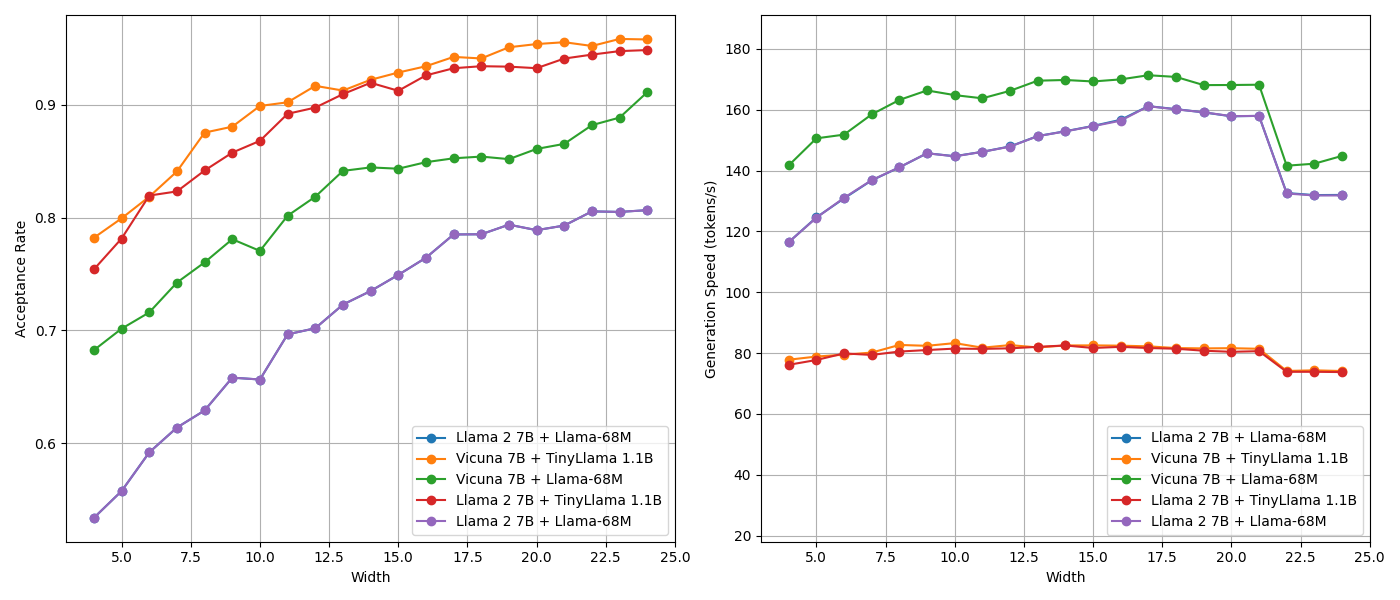
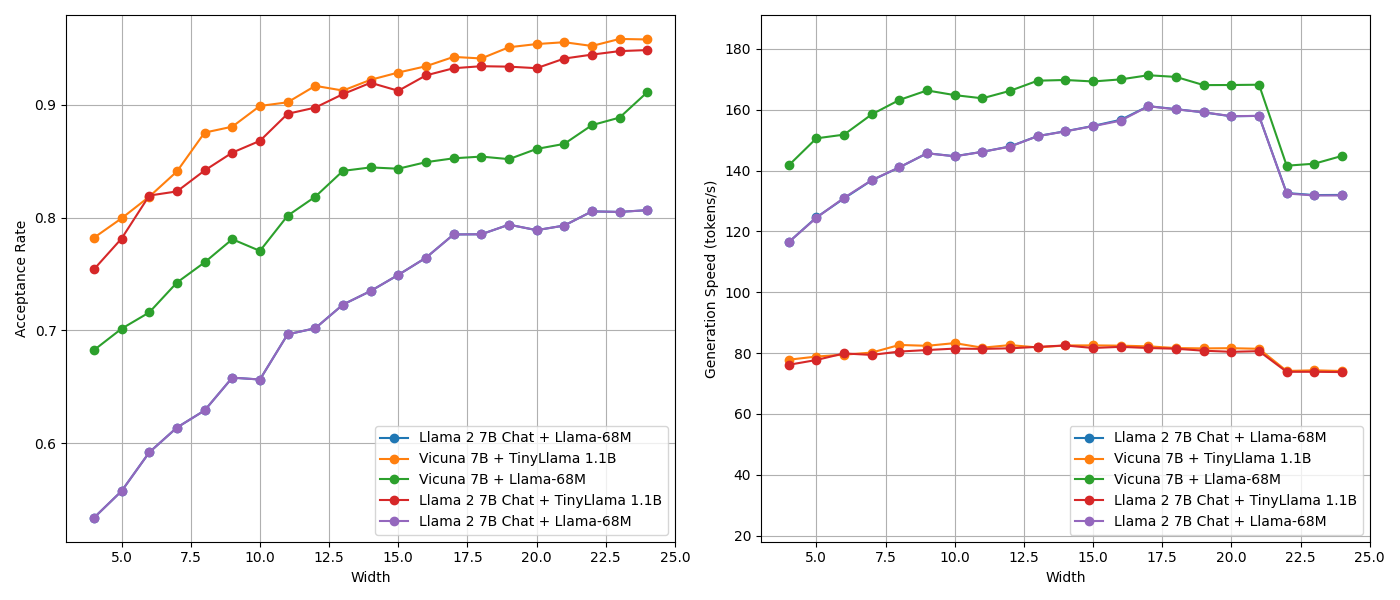
update data

Changed region(s): [[0.7679, 0.72, 0.9829, 0.9], [0.2764, 0.72, 0.4607, 0.9]]

diff --git a/evaluation/dynasd_test_without_decision_model.py b/evaluation/dynasd_test_without_decision_model.py
@@ -3,136 +3,180 @@ import torch
 from transformers import AutoTokenizer
 from inference.fork_shape_tree_attn import *
 from inference.strategies import *
-from decision_models import *
+from inference.decision_models import *
 from model.llama_tree_attn import LlamaForCausalLM
 import datasets
 from tqdm import tqdm
 import gc
+import matplotlib.pyplot as plt
 import csv
-import random
 
-target_model_names = ["lmsys/vicuna-7b-v1.5", "meta-llama/Llama-2-7b-chat-hf"]
-draft_model_names = ['TinyLlama/TinyLlama-1.1B-Chat-v1.0', 'JackFram/llama-68m']
+target_model_name = "meta-llama/Llama-2-7b-chat-hf"
+draft_model_name = 'TinyLlama/TinyLlama-1.1B-Chat-v1.0'
+
 dataset = datasets.load_dataset("HuggingFaceH4/mt_bench_prompts", split="train")
 prompts = [" ".join(example['prompt']) for example in dataset]
-
-# dataset = datasets.load_dataset("yahma/alpaca-cleaned", split="train")
-# prompts = []
-# for example in dataset:
-#     if len(example['input']) != 0:
-#         prompt = "Question: " + " ".join([example['instruction'], example["input"]]).strip() + " Answer: "
-#         prompts.append(prompt)
-#     else:
-#         prompt = "Answer the following question: " + example['instruction']
-#         prompts.append(prompt)
-
-# dataset = datasets.load_dataset("mandarjoshi/trivia_qa", "rc.nocontext", split="test")
-# prompts = []
-# for example in dataset:
-#     prompt = "Answer the following question: " + example['question'] + " Write your answer here: "
-#     prompts.append(prompt)
-# prompts = random.sample(prompts, 500)
 
 max_new_tokens = 200
 draft_model_temp = 0
 target_model_temp = 0
+
 def dynasd_inference(target_model_name, draft_model_name, prompts, draft_model_temp=draft_model_temp, target_model_temp=target_model_temp):
-    width = 6
+    widths = [4,5,6,7,8,9,10,11,12,13,14,15,16,17,18,19,20,21,22,23,24]
+    depth = 5
+    
     if draft_model_name == 'TinyLlama/TinyLlama-1.1B-Chat-v1.0' and target_model_name == 'lmsys/vicuna-7b-v1.5':
-        depth = 5
-        decision_threshold = 0.6
         file_name = "tinyllama_vicuna_7b"
     elif draft_model_name == 'TinyLlama/TinyLlama-1.1B-Chat-v1.0' and target_model_name == 'meta-llama/Llama-2-7b-chat-hf':
-        depth = 5
-        decision_threshold = 0.6
         file_name = "tinyllama_llama2_7b"
     elif draft_model_name == 'JackFram/llama-68m' and target_model_name == 'lmsys/vicuna-7b-v1.5':
-        depth = 5
-        decision_threshold = 0.5
         file_name = "llama_68m_vicuna_7b"
     elif draft_model_name == 'JackFram/llama-68m' and target_model_name == 'meta-llama/Llama-2-7b-chat-hf':
-        depth = 5
-        decision_threshold = 0.5
         file_name = "llama_68m_llama2_7b"
+    
     if draft_model_name == 'TinyLlama/TinyLlama-1.1B-Chat-v1.0':
         decision_model = DecisionModelV1_Tinyllama().cuda()
     elif draft_model_name == 'JackFram/llama-68m':
         decision_model = DecisionModelV1().cuda()
+
     print("DynaSD Inference")
     
-    total_stats = {'token/second': 0.0,"verification_time": 0.0,
-                'acceptance_rate': 0.0, "draft_generation_time": 0.0,
-                "ground_acceptance_count": 0, "total_generation_round": 0,
-                "decision_model_time": 0.0, "decision_acceptance_count": 0}
-    
     decision_model_path = f'/home/iasl-transformers/DynaSD/decision_model/soft_{file_name}.pt'
-    draft_model = LlamaForCausalLM.from_pretrained(
-        draft_model_name,
-        torch_dtype=torch.float32,
-    ).to('cuda')
-    target_model = LlamaForCausalLM.from_pretrained(
-        target_model_name,
-        torch_dtype=torch.bfloat16,
-    ).to('cuda')
+    draft_model = LlamaForCausalLM.from_pretrained(draft_model_name, torch_dtype=torch.float32).to('cuda')
+    target_model = LlamaForCausalLM.from_pretrained(target_model_name, torch_dtype=torch.bfloat16).to('cuda')
     draft_model.eval()
     target_model.eval()
 
     tokenizer = AutoTokenizer.from_pretrained(target_model_name)
-    strategy = NewTreeStrategy(
-        draft_model=draft_model,
-        target_model=target_model,
-        eos_token_id=tokenizer.eos_token_id,
-        max_new_tokens=max_new_tokens,
-        greedy=True,
-        using_decision_model=False,
-        decision_model=decision_model,
-        decision_model_path=decision_model_path,
-        decision_threshold= decision_threshold,
-        config_depth= depth,
-        config_width= width,
-        draft_model_temp=draft_model_temp,
-        target_model_temp=target_model_temp,
-        soft_label=True
-    )
+    acc_rates = []
+    speeds = []
 
-    strategy.max_config = strategy.generate_fork_config(width = width,depth = depth)
-    strategy.tree_attn_self_mask = get_tree_attn_self_mask(strategy.max_config).to("cuda")
-    strategy.max_draft_len = len(strategy.max_config)-1
+    for width in widths:
+        strategy = NewTreeStrategy(
+            draft_model=draft_model,
+            target_model=target_model,
+            eos_token_id=tokenizer.eos_token_id,
+            max_new_tokens=max_new_tokens,
+            greedy=True,
+            using_decision_model=False,
+            decision_model=decision_model,
+            decision_model_path=decision_model_path,
+            decision_threshold=0.4,
+            config_depth=depth,
+            config_width=width,
+            draft_model_temp=draft_model_temp,
+            target_model_temp=target_model_temp,
+            soft_label=True
+        )
 
-    acc_count = 0
-    total_generated_draft_tokens = 0
-    total_generated_tokens = 0
-    
-    start_time = time.time()
-    with torch.no_grad():
-        for prompt_text in tqdm(prompts):
-            inputs = tokenizer(prompt_text, return_tensors="pt").to("cuda")
-            input_ids = inputs.input_ids
-            output, stats = strategy.generation_loop(input_ids=input_ids)
-            print(tokenizer.batch_decode(output, skip_special_tokens=True))
-            total_generated_tokens += output.shape[1] - input_ids.shape[1]
-            acc_count += stats["ground_acceptance_count"].item()
-            total_generated_draft_tokens += stats["decision_acceptance_count"]
-    end_time = time.time()
-    run_time = end_time - start_time
-    acc_rate = acc_count / total_generated_draft_tokens
-    speed = total_generated_tokens / run_time
+        strategy.max_config = strategy.generate_fork_config(width=width, depth=depth)
+        strategy.tree_attn_self_mask = get_tree_attn_self_mask(strategy.max_config).to("cuda")
+        strategy.max_draft_len = len(strategy.max_config) - 1
+        acc_count = 0
+        total_generated_draft_tokens = 0
+        total_generated_tokens = 0
+        
+        start_time = time.time()
+        with torch.no_grad():
+            for prompt_text in tqdm(prompts):
+                inputs = tokenizer(prompt_text, return_tensors="pt").to("cuda")
+                input_ids = inputs.input_ids
+                output, stats = strategy.generation_loop(input_ids=input_ids)
+                print(tokenizer.batch_decode(output, skip_special_tokens=True))
+                total_generated_tokens += output.shape[1] - input_ids.shape[1]
+                acc_count += stats["ground_acceptance_count"].item()
+                total_generated_draft_tokens += stats["decision_acceptance_count"]
+        end_time = time.time()
+        run_time = end_time - start_time
+        acc_rate = acc_count / total_generated_draft_tokens
+        speed = total_generated_tokens / run_time
+        acc_rates.append(acc_rate)
+        speeds.append(speed)
+
     torch.cuda.empty_cache()
     del draft_model
     del target_model
     del tokenizer
     gc.collect()
-    return speed, acc_rate
 
-csv_data = {}
-for target_model in target_model_names:
-    for draft_model in draft_model_names:
-        speed, acc_rate = dynasd_inference(target_model_name=target_model, draft_model_name=draft_model, prompts=prompts)
-        csv_data[(draft_model, target_model)] = [speed, acc_rate]
-        print(f"Speed: {speed}")
-        print(f"Acceptance Rate: {acc_rate}")
+    return widths, acc_rates, speeds
 
-with open('dynasd_inference_without_decision_model_mt_bench.csv', mode='w') as file:
-    writer = csv.writer(file)
-    for key, value in csv_data.items():
-        writer.writerow([key[0], key[1], value[0], value[1]])
+# widths, acc_rates, speeds = dynasd_inference(target_model_name=target_model_name, draft_model_name=draft_model_name, prompts=prompts)
+# with open('/home/iasl-transformers/DynaSD/results/dynasd_acc_rate_speed_vs_width_no_decision_model_large_model.csv', mode='w') as file:
+#     writer = csv.writer(file)
+#     writer.writerow([target_model_name, draft_model_name, widths, acc_rates, speeds])
+
+fig, axs = plt.subplots(1, 2, figsize=(14, 6))
+
+# Plot 1: Small draft model
+with open('/home/iasl-transformers/DynaSD/results/dynasd_acc_rate_speed_vs_width.csv', mode='r') as file:
+    reader = csv.reader(file)
+    for row in reader:
+        target_model = row[0]
+        draft_model = row[1]
+        if target_model == 'meta-llama/Llama-2-7b-chat-hf' and draft_model == 'JackFram/llama-68m':
+            widths = row[2].strip('][').split(', ')
+            widths = list(map(int, widths))
+            speeds = row[4].strip('][').split(', ')
+            speeds = list(map(float, speeds))
+            axs[0].plot(widths, speeds, label=f"With Decision Model")
+            break
+
+with open('/home/iasl-transformers/DynaSD/results/dynasd_acc_rate_speed_vs_width_no_decision_model.csv', mode='r') as file:
+    reader = csv.reader(file)
+    for row in reader:
+        target_model = row[0]
+        draft_model = row[1]
+        if target_model == 'meta-llama/Llama-2-7b-chat-hf' and draft_model == 'JackFram/llama-68m':
+            widths = row[2].strip('][').split(', ')
+            widths = list(map(int, widths))
+            speeds = row[4].strip('][').split(', ')
+            speeds = list(map(float, speeds))
+            axs[0].plot(widths, speeds, label=f"Without Decision Model") 
+            break
+
+axs[0].set_xlabel('Width')
+axs[0].set_ylabel('Generation Speed (tokens/s)')
+axs[0].set_ylim(bottom=100, top=180)
+axs[0].legend()
+axs[0].grid(True)
+
+# Plot 2: Large draft model
+with open('/home/iasl-transformers/DynaSD/results/dynasd_acc_rate_speed_vs_width.csv', mode='r') as file:
+    reader = csv.reader(file)
+    for row in reader:
+        target_model = row[0]
+        draft_model = row[1]
+        if target_model == 'meta-llama/Llama-2-7b-chat-hf' and draft_model == 'TinyLlama/TinyLlama-1.1B-Chat-v1.0':
+            widths = row[2].strip('][').split(', ')
+            widths = list(map(int, widths))
+            speeds = row[4].strip('][').split(', ')
+            speeds = list(map(float, speeds))
+            print(speeds)
+            axs[1].plot(widths, speeds, label=f"With Decision Model")
+            break
+
+with open('/home/iasl-transformers/DynaSD/results/dynasd_acc_rate_speed_vs_width_no_decision_model.csv', mode='r') as file:
+    reader = csv.reader(file)
+    for row in reader:
+        target_model = row[0]
+        draft_model = row[1]
+        if target_model == 'meta-llama/Llama-2-7b-chat-hf' and draft_model == 'TinyLlama/TinyLlama-1.1B-Chat-v1.0':
+            widths = row[2].strip('][').split(', ')
+            widths = list(map(int, widths))
+            speeds = row[4].strip('][').split(', ')
+            speeds = list(map(float, speeds))
+            print(speeds)
+            axs[1].plot(widths, speeds, label=f"Without Decision Model")
+            break
+
+axs[1].set_xlabel('Width')
+axs[1].set_ylabel('Generation Speed (tokens/s)')
+axs[1].set_ylim(bottom=70, top=85)
+axs[1].legend()
+axs[1].grid(True)
+
+# Save and show the plots
+plt.tight_layout()
+plt.savefig('dynasd_speed_vs_width_decision_model.png')
+plt.show()

diff --git a/evaluation/dynasd_test_width.py b/evaluation/dynasd_test_width.py
@@ -3,7 +3,7 @@ import torch
 from transformers import AutoTokenizer
 from inference.fork_shape_tree_attn import *
 from inference.strategies import *
-from decision_models import *
+from inference.decision_models import *
 from model.llama_tree_attn import LlamaForCausalLM
 import datasets
 from tqdm import tqdm
@@ -169,7 +169,7 @@ prompts = [" ".join(example['prompt']) for example in dataset]
 fig, axs = plt.subplots(1, 2, figsize=(14, 6))
 
 # Plot 1: Width vs Acceptance Rate
-with open('/home/iasl-transformers/DynaSD/dynasd_acc_rate_speed_vs_width.csv', mode='r') as file:
+with open('/home/iasl-transformers/DynaSD/results/dynasd_acc_rate_speed_vs_width.csv', mode='r') as file:
     reader = csv.reader(file)
     for row in reader:
         target_model = row[0]
@@ -182,7 +182,7 @@ with open('/home/iasl-transformers/DynaSD/dynasd_acc_rate_speed_vs_width.csv', m
         if target_model == 'lmsys/vicuna-7b-v1.5':
             target_model = 'Vicuna 7B'
         if target_model == 'meta-llama/Llama-2-7b-chat-hf':
-            target_model = 'Llama 2 7B'
+            target_model = 'Llama 2 7B Chat'
         if draft_model == 'TinyLlama/TinyLlama-1.1B-Chat-v1.0':
             draft_model = 'TinyLlama 1.1B'
         if draft_model == 'JackFram/llama-68m':
@@ -194,7 +194,7 @@ axs[0].legend()
 axs[0].grid(True)
 
 # Plot 2: Width vs Speed
-with open('/home/iasl-transformers/DynaSD/dynasd_acc_rate_speed_vs_width.csv', mode='r') as file:
+with open('/home/iasl-transformers/DynaSD/results/dynasd_acc_rate_speed_vs_width.csv', mode='r') as file:
     reader = csv.reader(file)
     for row in reader:
         target_model = row[0]
@@ -206,7 +206,7 @@ with open('/home/iasl-transformers/DynaSD/dynasd_acc_rate_speed_vs_width.csv', m
         if target_model == 'lmsys/vicuna-7b-v1.5':
             target_model = 'Vicuna 7B'
         if target_model == 'meta-llama/Llama-2-7b-chat-hf':
-            target_model = 'Llama 2 7B'
+            target_model = 'Llama 2 7B Chat'
         if draft_model == 'TinyLlama/TinyLlama-1.1B-Chat-v1.0':
             draft_model = 'TinyLlama 1.1B'
         if draft_model == 'JackFram/llama-68m':
